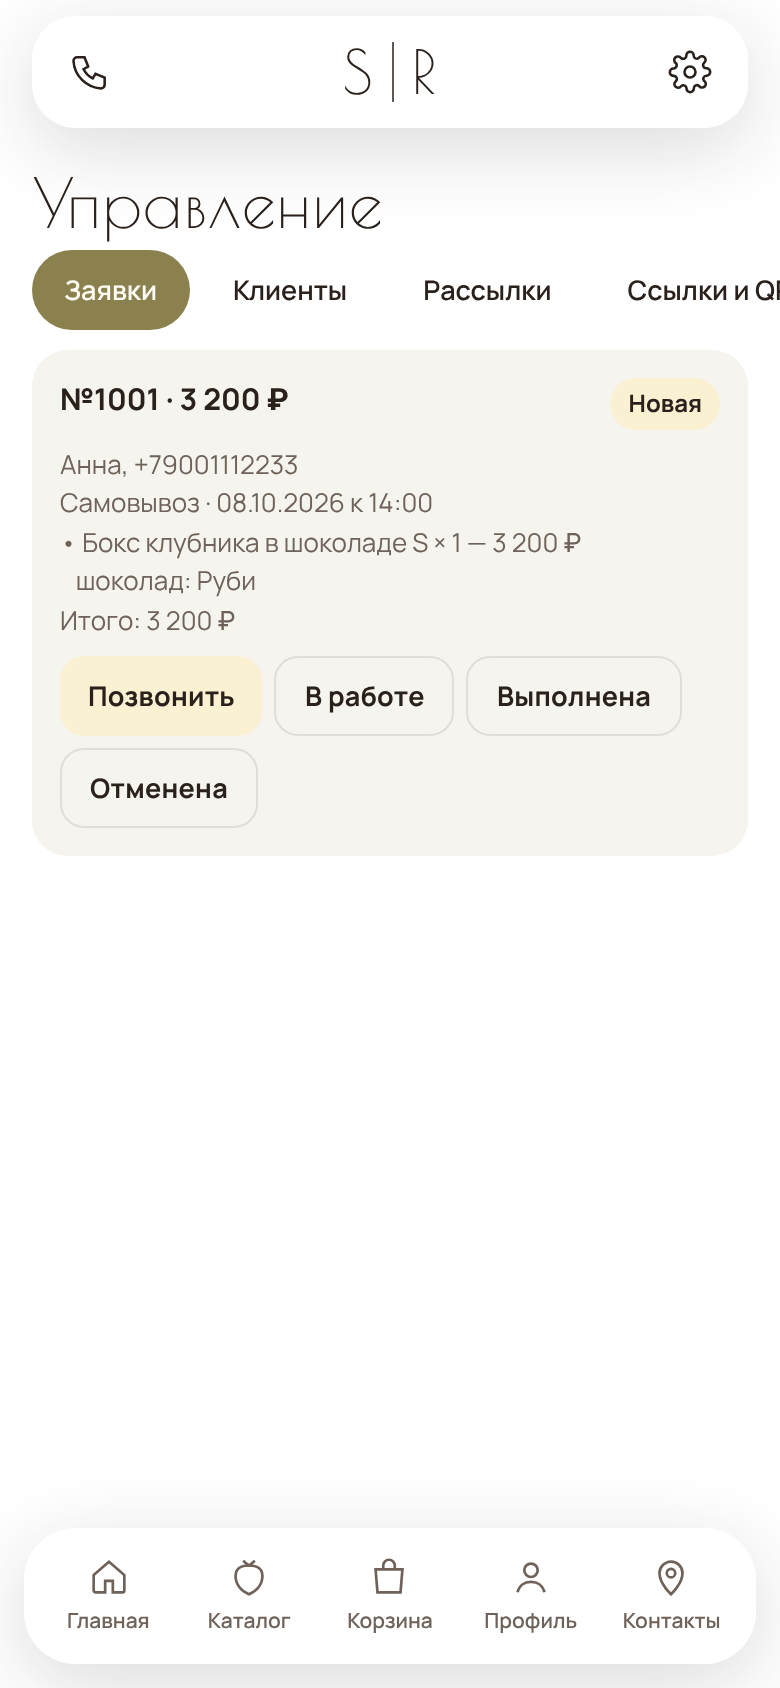
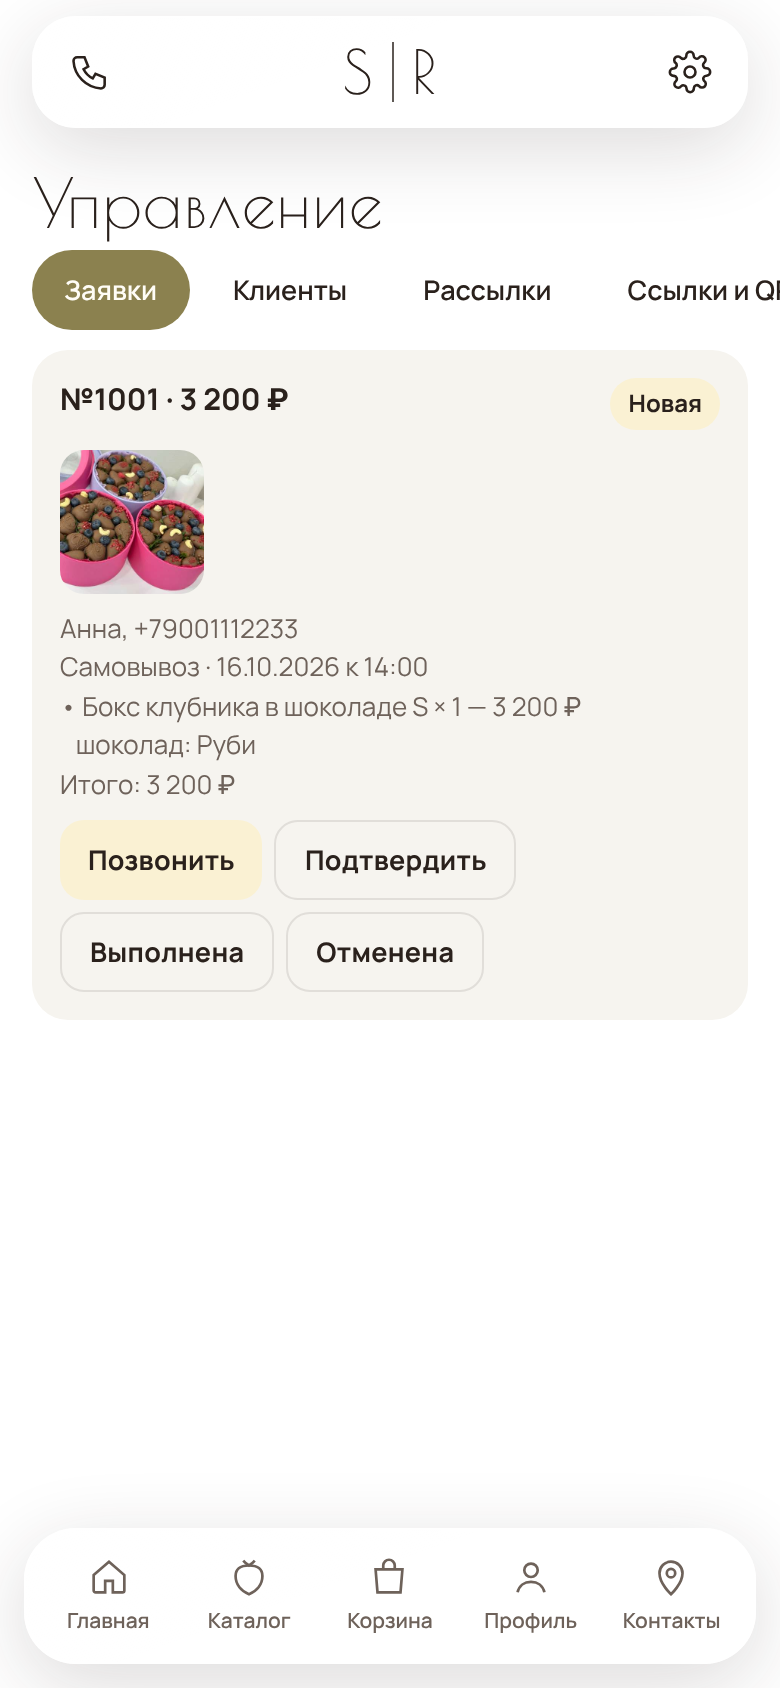
Мини-приложение не зависает, если скрипт мессенджера не грузится: загрузка без блокировки, запасной мост для Telegram
Claude-Session: https://claude.ai/code/session_013HVBPZtSqSrvDRQkXTFUFM

diff --git a/public/index.html b/public/index.html
@@ -8,31 +8,51 @@
   <link rel="stylesheet" href="fonts/fonts.css">
   <link rel="stylesheet" href="styles.css">
   <script>
-    // Load the bridge of the messenger that opened us: MAX puts #WebAppData=..., Telegram puts #tgWebAppData=...
+    // The messenger's bridge script is loaded WITHOUT blocking the page: on some mobile networks telegram.org hangs,
+    // and a blocking script would leave the app on Telegram's loading bar forever. The app starts when the bridge
+    // has loaded, failed, or after a short wait — then, for Telegram, a small built-in stand-in is used.
     (function () {
       var h = location.hash + location.search;
       var isMax = /WebAppData=/.test(h) && !/tgWebAppData=/.test(h);
-      document.write('<script src="' + (isMax ? "https://st.max.ru/js/max-web-app.js" : "https://telegram.org/js/telegram-web-app.js") + '"><\/script>');
-    })();
-  </script>
-  <script>
-    // If telegram.org did not load (some mobile networks), read the launch data Telegram puts in the address ourselves,
-    // so the shop still opens with the customer's profile; buttons that need Telegram itself just do nothing.
-    (function () {
-      if (window.Telegram && window.Telegram.WebApp) return;
-      var m = /[#&]tgWebAppData=([^&]*)/.exec(location.hash);
-      if (!m) return;
-      var raw = decodeURIComponent(m[1]), user = null;
-      try { user = JSON.parse(new URLSearchParams(raw).get("user")); } catch (e) {}
-      var noop = function () {};
-      var dark = /bg_color%22%3A%22%23[0-3]/i.test(location.hash) || /tgWebAppThemeParams=.*bg_color.*%23[0-3]/i.test(location.hash);
-      window.Telegram = { WebApp: {
-        initData: raw, initDataUnsafe: { user: user }, colorScheme: dark ? "dark" : "light", platform: "unknown",
-        ready: noop, expand: noop, onEvent: noop, setHeaderColor: noop, setBackgroundColor: noop,
-        BackButton: { show: noop, hide: noop, onClick: noop }, HapticFeedback: { impactOccurred: noop, notificationOccurred: noop },
-        openLink: function (u) { window.open(u, "_blank"); }, openTelegramLink: function (u) { window.open(u, "_blank"); },
-        showConfirm: function (q, cb) { cb(window.confirm(q)); }
-      } };
+      window.__bridgeReady = new Promise(function (resolve) {
+        var done = false, fin = function () { if (!done) { done = true; resolve(); } };
+        var s = document.createElement("script");
+        s.src = isMax ? "https://st.max.ru/js/max-web-app.js" : "https://telegram.org/js/telegram-web-app.js";
+        s.async = true; s.onload = fin; s.onerror = fin;
+        document.head.appendChild(s);
+        setTimeout(fin, isMax ? 5000 : 2500);
+      });
+      // Stand-in for telegram-web-app.js: launch data from the address, events to Telegram the same way the real script sends them.
+      window.__tgStandIn = function () {
+        var m = /[#&]tgWebAppData=([^&]*)/.exec(location.hash);
+        if (!m) return null;
+        var raw = decodeURIComponent(m[1]), user = null, theme = {};
+        try { user = JSON.parse(new URLSearchParams(raw).get("user")); } catch (e) {}
+        try { var t = /[#&]tgWebAppThemeParams=([^&]*)/.exec(location.hash); if (t) theme = JSON.parse(decodeURIComponent(t[1])); } catch (e) {}
+        var post = function (type, data) {
+          try {
+            if (window.TelegramWebviewProxy) return window.TelegramWebviewProxy.postEvent(type, JSON.stringify(data || {}));
+            if (window.external && "notify" in window.external) return window.external.notify(JSON.stringify({ eventType: type, eventData: data || {} }));
+            window.parent.postMessage(JSON.stringify({ eventType: type, eventData: data || {} }), "*");
+          } catch (e) {}
+        };
+        var backCbs = [];
+        window.Telegram = window.Telegram || {};
+        window.Telegram.WebView = { receiveEvent: function (type) { if (type === "back_button_pressed") backCbs.forEach(function (f) { f(); }); } };
+        window.TelegramGameProxy = { receiveEvent: window.Telegram.WebView.receiveEvent };
+        var bg = String(theme.bg_color || "#ffffff").replace("#", ""), lum = parseInt(bg.slice(0, 2), 16) + parseInt(bg.slice(2, 4), 16) + parseInt(bg.slice(4, 6), 16);
+        var noop = function () {};
+        return {
+          initData: raw, initDataUnsafe: { user: user }, colorScheme: lum < 384 ? "dark" : "light", platform: "unknown", standIn: true,
+          ready: function () { post("web_app_ready"); }, expand: function () { post("web_app_expand"); },
+          onEvent: noop, setHeaderColor: noop, setBackgroundColor: noop,
+          BackButton: { show: function () { post("web_app_setup_back_button", { is_visible: true }); }, hide: function () { post("web_app_setup_back_button", { is_visible: false }); }, onClick: function (f) { backCbs.push(f); } },
+          HapticFeedback: { impactOccurred: function (s) { post("web_app_trigger_haptic_feedback", { type: "impact", impact_style: s || "light" }); }, notificationOccurred: function (s) { post("web_app_trigger_haptic_feedback", { type: "notification", notification_type: s }); } },
+          openLink: function (u) { post("web_app_open_link", { url: u }); },
+          openTelegramLink: function (u) { var x = new URL(u); post("web_app_open_tg_link", { path_full: x.pathname + x.search }); },
+          showConfirm: function (q, cb) { cb(window.confirm(q)); }
+        };
+      };
     })();
   </script>
 </head>

diff --git a/public/app.js b/public/app.js
@@ -1,5 +1,10 @@
 /* Sweet Roses — mini app for MAX and Telegram (vanilla JS, no build step) */
-(function () {
+// starts once the messenger bridge has loaded (or failed / timed out) — see index.html
+(window.__bridgeReady || Promise.resolve()).then(function () {
+  if (!(window.Telegram && window.Telegram.WebApp && window.Telegram.WebApp.initData !== undefined) && window.__tgStandIn) {
+    const st = window.__tgStandIn();
+    if (st) { window.Telegram = window.Telegram || {}; window.Telegram.WebApp = st; }
+  }
   "use strict";
 
   // Host messenger. MAX's script creates window.WebApp even outside MAX, so only a non-empty initData means "inside MAX".
@@ -1434,4 +1439,4 @@
     render();
   }
   boot();
-})();
+});
